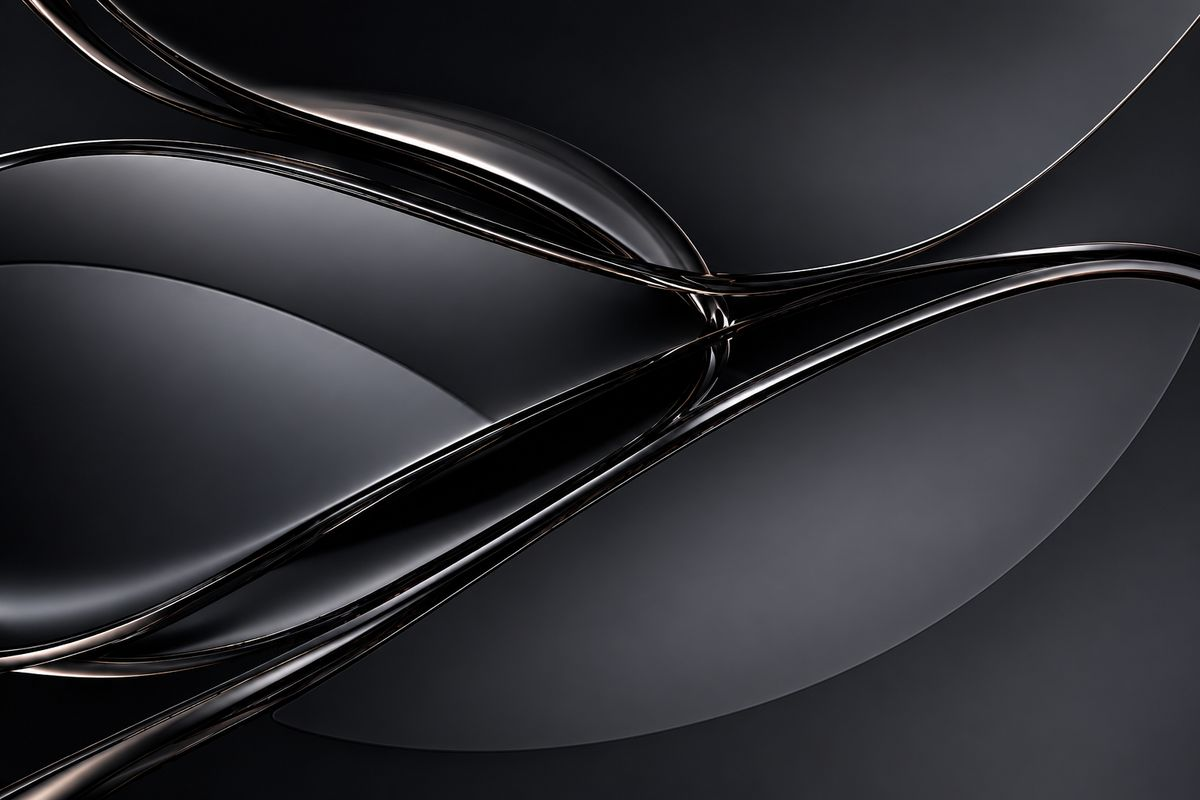
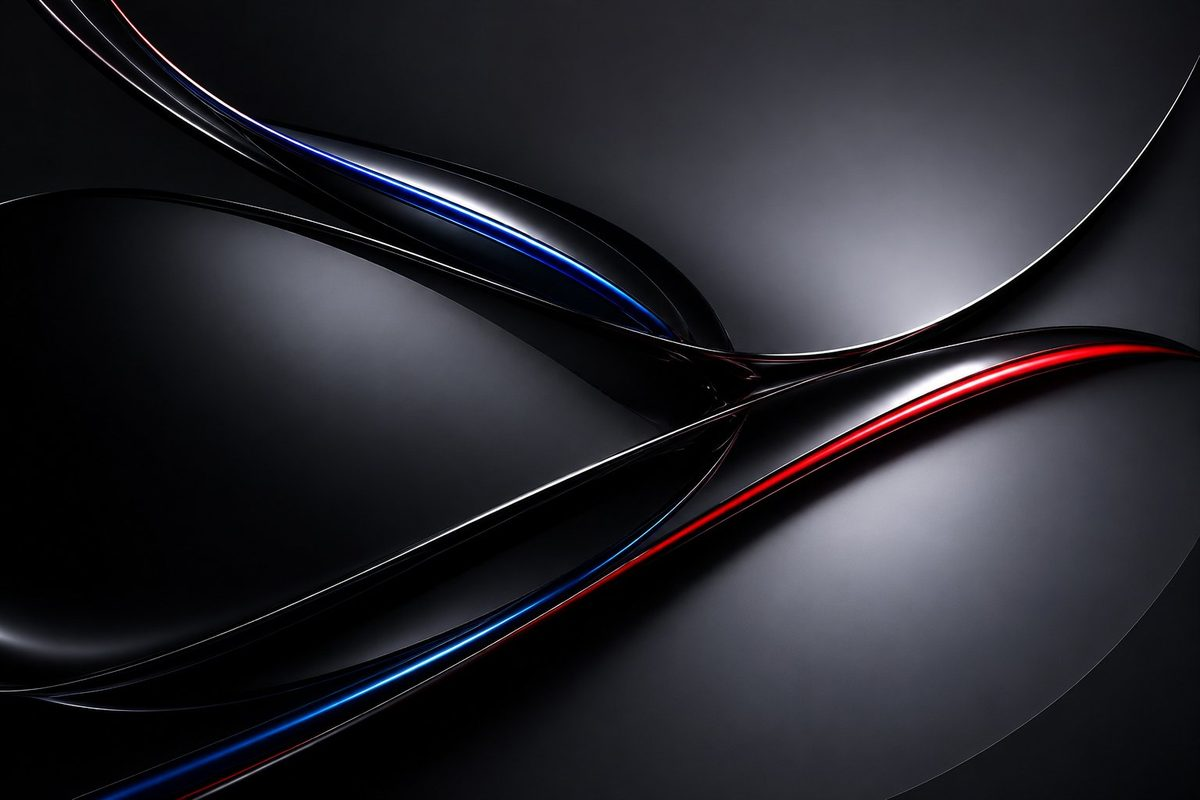
feat(theme): electric blue + crimson red palette with new bg
- Background image replaced (graphite curves with blue/red light streaks)
- Nutrition accent: blue #4D8BFA (was silver/chrome)
- Training accent: red #FF3B5C (was champagne)
- Macros: protein blue, carbs cool-silver, fat red
- Metallic CTA gradients updated to match (blue/red)
- Status colors realigned (green=blue, red=fat-red, warning=amber)

diff --git a/src/lib.js b/src/lib.js
@@ -59,29 +59,29 @@ export { detectLang };
 
 /* ═══════════════════════════ TOKENS ═══════════════════════════ */
 export const t = {
-  // Surfaces (Premium graphite/chrome)
-  bg: '#0B0C0E', bg2: '#121417',
-  card: '#17191D', card2: '#1A1C21', card3: '#22252A',
-  // Borders & dividers (frosted glass)
-  border: 'rgba(255,255,255,0.10)', borderStrong: 'rgba(255,255,255,0.18)',
+  // Surfaces (deep graphite with subtle cool tint matching new bg)
+  bg: '#080A0E', bg2: '#0E1115',
+  card: '#141821', card2: '#1A1F2A', card3: '#252B36',
+  // Borders & dividers (cool frosted glass)
+  border: 'rgba(140,160,200,0.10)', borderStrong: 'rgba(140,160,200,0.20)',
   // Text
-  text: '#F2F2F3', soft: '#A7A9AD', muted: '#6F7277', dim: '#4A4D52',
-  // Brand accents (former green → silver/chrome, former orange → champagne)
-  // Kept under same keys so existing UI flips palette in-place.
-  orange: '#C8B18A', orangeBg: 'rgba(200,177,138,0.10)', orangeBorder: 'rgba(200,177,138,0.32)',
-  green:  '#D8D8DA', greenBg:  'rgba(255,255,255,0.06)',  greenBorder:  'rgba(255,255,255,0.18)',
-  // Premium accents (new, addressable directly)
-  silver: '#D8D8DA', chrome: '#F5F5F6', champagne: '#C8B18A', graphite: '#3A3D42',
-  // Macro chart colours — punchier but still premium (between pastel and neon)
-  protein: '#7BB8F5', carbs: '#F5D670', fat: '#F5928E',
-  // Status overlays (subtler than before)
-  glow: '#E8EAEE',
-  success: '#B8D6BE', warning: '#D6C49B', error: '#D6A799',
-  // Metallic gradients (for primary CTAs / hero accents)
-  metalGreen:  'linear-gradient(135deg, #F5F5F6 0%, #D8D8DA 40%, #9CA0A6 100%)', // silver/chrome
-  metalOrange: 'linear-gradient(135deg, #E2CFA8 0%, #C8B18A 50%, #9C8761 100%)', // champagne
-  metalSilver: 'linear-gradient(135deg, #F5F5F6 0%, #C8C9CC 50%, #828B99 100%)',
-  // Surface effects
+  text: '#F0F2F7', soft: '#A0A6B4', muted: '#6F7480', dim: '#454A55',
+  // Brand accents — Nutrition = electric blue, Training = crimson red.
+  // Kept under same keys (green/orange) so all existing UI flips palette in-place.
+  orange: '#FF3B5C', orangeBg: 'rgba(255,59,92,0.12)', orangeBorder: 'rgba(255,59,92,0.32)',
+  green:  '#4D8BFA', greenBg:  'rgba(77,139,250,0.12)', greenBorder:  'rgba(77,139,250,0.32)',
+  // Premium accents (addressable directly)
+  silver: '#D8DBE2', chrome: '#F2F4F9', champagne: '#5EE3F5', graphite: '#1F2530',
+  // Macro chart colours — blue (protein), silver-cool (carbs), red (fat)
+  protein: '#4D8BFA', carbs: '#B8C2D6', fat: '#FF3B5C',
+  // Status overlays
+  glow: '#4D8BFA',
+  success: '#4D8BFA', warning: '#FFB84D', error: '#FF3B5C',
+  // Metallic gradients (for primary CTAs)
+  metalGreen:  'linear-gradient(135deg, #6FA0FF 0%, #4D8BFA 45%, #1F5BD4 100%)', // electric blue
+  metalOrange: 'linear-gradient(135deg, #FF6680 0%, #FF3B5C 45%, #C42043 100%)', // crimson red
+  metalSilver: 'linear-gradient(135deg, #F2F4F9 0%, #C8CCD4 50%, #828B99 100%)',
+  // Surface effects (glassmorphism stays)
   glass:        'rgba(255,255,255,0.04)',
   glassHover:   'rgba(255,255,255,0.08)',
   glassPanel:   'linear-gradient(145deg, rgba(255,255,255,0.075), rgba(255,255,255,0.025))',
@@ -91,11 +91,11 @@ export const t = {
 };
 
 export const STATUS = {
-  gray:   { bg: 'rgba(111,114,119,0.22)', dot: '#6F7277', label: '#A7A9AD' },
-  green:  { bg: 'rgba(216,216,218,0.14)', dot: '#D8D8DA', label: '#D8D8DA' },
-  yellow: { bg: 'rgba(200,177,138,0.16)', dot: '#C8B18A', label: '#D6C49B' },
-  orange: { bg: 'rgba(200,177,138,0.20)', dot: '#C8B18A', label: '#D6A799' },
-  red:    { bg: 'rgba(214,167,153,0.20)', dot: '#D6A799', label: '#D6A799' },
+  gray:   { bg: 'rgba(111,116,128,0.22)', dot: '#6F7480', label: '#A0A6B4' },
+  green:  { bg: 'rgba(77,139,250,0.16)',  dot: '#4D8BFA', label: '#4D8BFA' },
+  yellow: { bg: 'rgba(184,194,214,0.16)', dot: '#B8C2D6', label: '#B8C2D6' },
+  orange: { bg: 'rgba(255,184,77,0.18)',  dot: '#FFB84D', label: '#FFB84D' },
+  red:    { bg: 'rgba(255,59,92,0.20)',   dot: '#FF3B5C', label: '#FF3B5C' },
 };
 
 /* ═══════════════════════════ UI CONSTANTS ═══════════════════════════ */